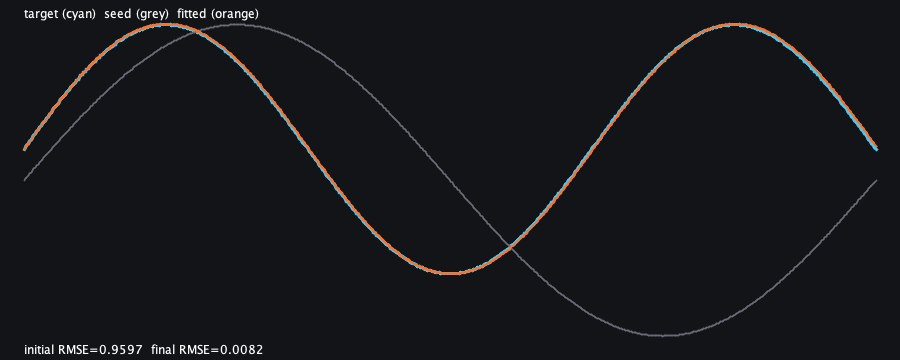
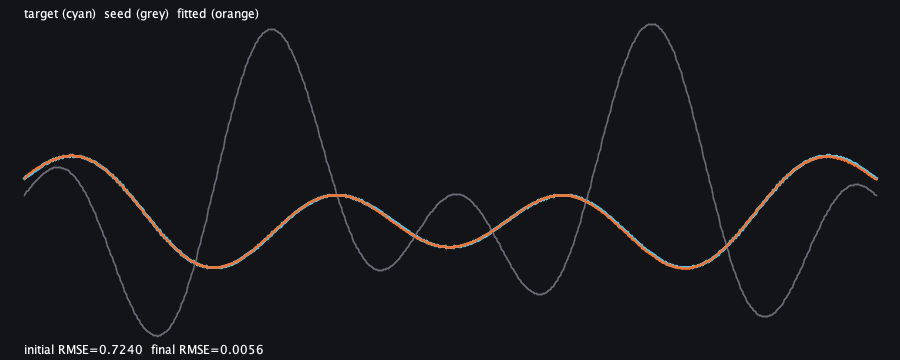
feat(fit): fitBest multi-restart + live-coding ergonomics + honest hard test
Follow-up to the differentiable-fit swing, from live review.

Why: a single fitGradient is *local*. Oscillator frequency/phase enter the
RMSE loss periodically, so from a wrong frequency Adam drifts into a spurious
basin and stalls (measured: cos(2)*sin(1.5) fit from cos(3.4)*sin(1.0) sticks
at RMSE ~0.19; more iters/higher lr don't help; global optimum ~0.006). The
shipped test hid this by fitting a single sine already inside the global basin.

- fitBest(target, seed, restarts): deterministic jittered restarts (restart 0 =
  clean anchor, so never worse than a plain fit), keeps the lowest-RMSE result.
  Escapes the frequency local-minimum -> RMSE ~0.006 on the hard target.
- Ergonomics (live coding): domain now accepts a bare range (0.0..1.0) or a
  Domain and defaults to Domain.DEFAULT (0..1) — no Functions.Domain(...) at the
  call site. (target.domain is unusable as a default: oscillators report
  Domain.ALL.) Applies to fitGradient/fitBest/fitHybrid.
- FnFitRun gets a concise ValueVisualizer render (RMSE before->after + a loss
  sparkline) so  is a clean result, not a 300-entry steps dump.
- Test: replaced the too-easy 'beats genetic' test with an honest pair —
  singleShotGradientStallsInAFrequencyLocalMinimum + fitBestEscapesWhereSingleShotStalls
  (< 0.05, far better than single-shot) — plus determinism, bare-range domain,
  and the concise-render assertion. Montage now renders the hard case via
  fitBest (eyeballed: fitted overlays target, RMSE 0.7240 -> 0.0056).
[…]

diff --git a/src/jvmMain/kotlin/afield/stdlib/FunctionFit.kt b/src/jvmMain/kotlin/afield/stdlib/FunctionFit.kt
@@ -13,6 +13,11 @@ import kotlin.random.Random
  * descends the RMSE loss against a target `Fn`. The two are complementary — [fitHybrid]
  * runs [evolve] to discover a shape, then polishes its constants here.
  *
+ * A lone [fitGradient] is *local* and will stall in a frequency local-minimum when the seed's
+ * oscillator frequencies are far from the target's (RMSE-vs-frequency is periodic, not convex);
+ * [fitBest] wraps it in deterministic jittered restarts and is the recommended entry when the
+ * starting numbers may be wrong. See [fitBest]'s KDoc for the why.
+ *
  * The θ extract/apply primitives ride on [Functions.Fn.mapGraphNumbers], whose post-order
  * DFS is stable and deterministic with `preserveSharing = false`: the *i*-th numeric leaf
  * seen while reading is the *i*-th leaf written while applying, so a plain index counter is
@@ -81,6 +86,16 @@ fun rmseLossAgainst(
     val fitness = matchFitness(target, domain, samples, complexityWeight = 0.0)
     return { candidate -> -fitness(candidate) }
 }
+
+/**
+ * A [Functions.Domain] is a `ClosedRange<Double>`, so the fitters accept either a bare range
+ * (`0.0 .. 1.0`) or a `Domain` and normalise here — no `Functions.Domain(...)` ceremony at the
+ * call site. The default across the fitters is the unit domain [Functions.Domain.DEFAULT]
+ * (`0..1`) — a bounded sampling window — because oscillator `Fn`s report [Functions.Domain.ALL]
+ * (±∞), which cannot be sampled; pass a range when you want to fit over anything else.
+ */
+private fun ClosedRange<Double>.asFnDomain(): Functions.Domain =
+    this as? Functions.Domain ?: Functions.Domain(start, endInclusive)
 
 /** One descent step's record: the loss (RMSE) after applying the step. */
 data class FnFitStep(
@@ -203,7 +218,7 @@ private fun finiteDifferenceGradient(
 fun fitGradient(
     target: Functions.Fn,
     seed: Functions.Fn,
-    domain: Functions.Domain = Functions.Domain.DEFAULT,
+    domain: ClosedRange<Double> = Functions.Domain.DEFAULT,
     iterations: Int = 200,
     lr: Double = 0.05,
     beta1: Double = 0.9,
@@ -219,10 +234,11 @@ fun fitGradient(
     require(lr > 0.0) { "lr must be positive" }
     require(samples >= 2) { "samples must be >= 2" }
 
+    val dom = domain.asFnDomain()
     val config = FnFitConfig(
-        iterations, lr, beta1, beta2, epsilon, fdStep, samples, domain, rngSeed, initJitter
+        iterations, lr, beta1, beta2, epsilon, fdStep, samples, dom, rngSeed, initJitter
     )
-    val loss = rmseLossAgainst(target, domain, samples)
+    val loss = rmseLossAgainst(target, dom, samples)
     val lossOfTheta: (DoubleArray) -> Double = { theta -> loss(seed.applyParameters(theta)) }
 
     val rng = Random(rngSeed)
@@ -292,6 +308,69 @@ fun fitGradient(
     )
 }
 
+/**
+ * Robust fit by multiple jittered restarts — the recommended entry point when the seed's
+ * numbers might be far from the target's.
+ *
+ * A single [fitGradient] is *local*: Adam follows the RMSE gradient into the nearest basin.
+ * For parameters that enter the loss linearly (amplitude, offset) that basin is the global
+ * one and one shot suffices. But **oscillator frequency/phase enter the loss periodically**,
+ * so RMSE-vs-frequency is riddled with local minima: a lone descent from the wrong frequency
+ * drifts into a spurious basin and stalls (empirically ~0.19 RMSE on a two-oscillator target
+ * whose global optimum is ~0.005). This runs [restarts] independent fits — restart 0 from the
+ * clean seed, the rest from `±restartJitter*(1+|θ|)` shakes of it (each seeded from
+ * `rngSeed + k`) — and keeps the lowest-RMSE result. One of the shakes usually lands in the
+ * global basin. Fully deterministic given [rngSeed].
+ *
+ * For a *structurally* wrong seed (missing operators, wrong topology) reach for [fitHybrid],
+ * which searches shape with [evolve] first; [fitBest] only searches numbers.
+ */
+fun fitBest(
+    target: Functions.Fn,
+    seed: Functions.Fn,
+    domain: ClosedRange<Double> = Functions.Domain.DEFAULT,
+    restarts: Int = 12,
+    iterations: Int = 300,
+    lr: Double = 0.05,
+    beta1: Double = 0.9,
+    beta2: Double = 0.999,
+    epsilon: Double = 1e-8,
+    fdStep: Double = 1e-4,
+    samples: Int = 128,
+    restartJitter: Double = 0.6,
+    rngSeed: Long = 0L
+): FnFitRun {
+    require(restarts >= 1) { "restarts must be >= 1" }
+    val reporter = afield.progressReporter("fit best")
+    var best: FnFitRun? = null
+    try {
+        for (k in 0 until restarts) {
+            // Restart 0 is the un-jittered anchor: fitBest is never worse than a plain fit.
+            val jitter = if (k == 0) 0.0 else restartJitter
+            val run = fitGradient(
+                target = target,
+                seed = seed,
+                domain = domain,
+                iterations = iterations,
+                lr = lr,
+                beta1 = beta1,
+                beta2 = beta2,
+                epsilon = epsilon,
+                fdStep = fdStep,
+                samples = samples,
+                rngSeed = rngSeed + k,
+                initJitter = jitter,
+                onIteration = { _, _ -> } // suppress inner bars; the outer one tracks restarts
+            )
+            if (best == null || run.finalRmse < best.finalRmse) best = run
+            reporter.update((k + 1).toLong(), restarts.toLong())
+        }
+    } finally {
+        reporter.finish()
+    }
+    return best!!
+}
+
 /** Result and provenance of a [fitHybrid] run: the structural search then the polish. */
 data class FnHybridRun(
     val evolveRun: FnEvolveRun,
@@ -318,7 +397,7 @@ data class FnHybridRun(
 fun fitHybrid(
     target: Functions.Fn,
     seed: Functions.Fn,
-    domain: Functions.Domain = Functions.Domain.DEFAULT,
+    domain: ClosedRange<Double> = Functions.Domain.DEFAULT,
     evolveIterations: Int = 64,
     evolveLambda: Int = 6,
     fitIterations: Int = 200,
@@ -332,7 +411,8 @@ fun fitHybrid(
     rngSeed: Long = 0L,
     mutations: List<Pair<String, FnMutation>> = FnMutations.defaults()
 ): FnHybridRun {
-    val fitness = matchFitness(target, domain, samples, complexityWeight)
+    val dom = domain.asFnDomain()
+    val fitness = matchFitness(target, dom, samples, complexityWeight)
     val evolveRun = evolve(
         seed = seed,
         iterations = evolveIterations,
@@ -344,7 +424,7 @@ fun fitHybrid(
     val fitRun = fitGradient(
         target = target,
         seed = evolveRun.best,
-        domain = domain,
+        domain = dom,
         iterations = fitIterations,
         lr = lr,
         beta1 = beta1,

diff --git a/src/jvmTest/kotlin/afield/stdlib/FunctionFitTest.kt b/src/jvmTest/kotlin/afield/stdlib/FunctionFitTest.kt
@@ -75,27 +75,63 @@ class FunctionFitTest {
         assertTrue(a.parameters.contentEquals(b.parameters), "same seed must give identical params")
     }
 
+    // A genuinely hard target: a *product* of two oscillators whose frequencies (2, 1.5) are
+    // far from the seed's (3.4, 1.0). Amplitude/offset are easy; the frequencies sit in a
+    // multimodal RMSE landscape, so a single local descent stalls in the wrong basin.
+    private fun hardTarget() = with(Functions) { cos(2) * sin(1.5, amplitude = 0.8, offset = 0.2) }
+    private fun hardSeed() = with(Functions) { cos(3.4) * sin(1.0, amplitude = 2.0, offset = 0.0) }
+
     @Test
-    fun fitGradientBeatsGeneticBaselineOfComparableBudget() = with(Functions) {
-        val target = sin(1.5, amplitude = 0.8, offset = 0.2)
-        val seed = sin(1.0, amplitude = 1.0, offset = 0.0)
+    fun singleShotGradientStallsInAFrequencyLocalMinimum() = with(Functions) {
+        // Documents the real limitation (not a bug): one descent, even with a large budget,
+        // cannot cross the frequency barriers and settles well above the global optimum (~0.005).
+        val run = fitGradient(hardTarget(), hardSeed(), domain = domain, iterations = 3000, lr = 0.05)
+        assertTrue(
+            run.finalRmse > 0.1,
+            "single-shot gradient is expected to stall here; got ${run.finalRmse} (if this " +
+                "dropped, the loss landscape or defaults changed — revisit the story)"
+        )
+    }
 
-        val fitRun = fitGradient(target, seed, domain = domain, iterations = 200, lr = 0.05)
-
-        // Comparable evaluation budget for the genetic baseline: fitGradient spends
-        // ~ iterations * (2*params + 1) evals; match that with evolve's lambda draws.
-        val budget = fitRun.evaluations
-        val fitness = matchFitness(target, domain, samples = 128)
-        val lambda = 6
-        val evolveIters = budget / lambda
-        val evolveRun = evolve(seed, iterations = evolveIters, lambda = lambda, rngSeed = 0L, fitness = fitness)
-        val evolveRmse = -evolveRun.bestScore
+    @Test
+    fun fitBestEscapesWhereSingleShotStalls() = with(Functions) {
+        val target = hardTarget()
+        val seed = hardSeed()
+        val single = fitGradient(target, seed, domain = domain, iterations = 300, lr = 0.05)
+        // fitBest omits `domain` on purpose — it must default to the target's own domain.
+        val best = fitBest(target, seed, restarts = 16, iterations = 400, lr = 0.05, rngSeed = 0L)
 
         assertTrue(
-            fitRun.finalRmse <= evolveRmse,
-            "gradient RMSE ${fitRun.finalRmse} should beat/match genetic $evolveRmse " +
-                "(budget=$budget, evolveIters=$evolveIters)"
+            best.finalRmse < 0.05,
+            "fitBest should reach the global basin (< 0.05); got ${best.finalRmse}"
         )
+        assertTrue(
+            best.finalRmse < single.finalRmse * 0.5,
+            "fitBest ${best.finalRmse} should be far better than single-shot ${single.finalRmse}"
+        )
+        // Never worse than a plain fit: restart 0 is the un-jittered anchor.
+        assertTrue(best.finalRmse <= single.finalRmse + 1e-9)
+    }
+
+    @Test
+    fun fitBestIsDeterministic() = with(Functions) {
+        val target = hardTarget()
+        val seed = hardSeed()
+        val a = fitBest(target, seed, restarts = 8, iterations = 150, rngSeed = 7L)
+        val b = fitBest(target, seed, restarts = 8, iterations = 150, rngSeed = 7L)
+        assertEquals(a.losses, b.losses, "same seed/config must give an identical trajectory")
+        assertTrue(a.parameters.contentEquals(b.parameters), "same seed must give identical params")
+    }
+
+    @Test
+    fun domainAcceptsABareRange() = with(Functions) {
+        val target = sin(1.5, amplitude = 0.8, offset = 0.2)
+        val seed = sin(1.0, amplitude = 1.0, offset = 0.0)
+        // Bare range, no Functions.Domain(...) ceremony:
+        val viaRange = fitGradient(target, seed, domain = 0.0..1.0, iterations = 120, lr = 0.05)
+        // Omitted entirely -> Functions.Domain.DEFAULT, which is 0..1:
+        val viaDefault = fitGradient(target, seed, iterations = 120, lr = 0.05)
+        assertEquals(viaRange.losses, viaDefault.losses, "bare range 0..1 must match the 0..1 default")
     }
 
     @Test
@@ -114,10 +150,22 @@ class FunctionFitTest {
     }
 
     @Test
+    fun fnFitRunRendersConciselyNotAsAFieldDump() = with(Functions) {
+        val run = fitGradient(sin(1.5, amplitude = 0.8, offset = 0.2), sin(1.0), iterations = 120, lr = 0.05)
+        val html = afield.ValueVisualizer.visualize(run)
+        assertTrue("FnFitRun" in html && "RMSE" in html, "should show a labelled RMSE summary")
+        // The whole point: no dumping the hundreds-long steps list.
+        assertTrue("FnFitStep" !in html, "concise render must not enumerate the steps list")
+        assertTrue(html.length < 6000, "concise render should be compact; was ${html.length} chars")
+    }
+
+    @Test
     fun rendersFitMontagePng() = with(Functions) {
-        val target = sin(1.5, amplitude = 0.8, offset = 0.2)
-        val seed = sin(1.0, amplitude = 1.0, offset = 0.0)
-        val run = fitGradient(target, seed, domain = domain, iterations = 300, lr = 0.05)
+        // Render the *hard* case via the recommended path, so the eyeballed proof shows the
+        // optimiser actually escaping a frequency local-minimum, not just an easy single-sine fit.
+        val target = hardTarget()
+        val seed = hardSeed()
+        val run = fitBest(target, seed, restarts = 16, iterations = 400, lr = 0.05)
 
         val w = 900
         val h = 360

diff --git a/src/jvmMain/kotlin/afield/visualization/ValueVisualizer.kt b/src/jvmMain/kotlin/afield/visualization/ValueVisualizer.kt
@@ -268,6 +268,7 @@ object ValueVisualizer {
         is FLine -> formatFLine(value)
         is Functions.Domain -> formatDomain(value)
         is Functions.Fn -> formatFn(value, depth, visited, respectDepthLimit)
+        is afield.stdlib.FnFitRun -> formatFnFitRun(value)
         is Box -> formatBox(value)
         is Plot -> value.toHtml()
         is Function<*> -> formatFunction(value, null)
@@ -696,6 +697,32 @@ object ValueVisualizer {
      * domain is just `Domain { ∞ }`, a point is `Domain { x }`, everything else `Domain { a..b }`
      * (with ±∞ for a half-open end).
      */
+    /**
+     * Concise render of a [afield.stdlib.FnFitRun]: the RMSE it started at and landed on, the
+     * budget it spent, and a sparkline of the whole loss trajectory — instead of dumping the
+     * (often hundreds long) `steps`/`losses` arrays that the generic data-class renderer would.
+     */
+    private fun formatFnFitRun(run: afield.stdlib.FnFitRun): String = buildString {
+        val arrow = if (run.improved) "↓" else "→"
+        val arrowColour = if (run.improved) "#8f8" else "#f88"
+        append("<div>")
+        append("<span style='color: #cc8;'>FnFitRun</span> ")
+        append("<span style='color: #aaa;'>RMSE </span>")
+        append("<span style='color: #8cf;'>${fmt(run.initialRmse)}</span>")
+        append("<span style='color: $arrowColour;'> $arrow </span>")
+        append("<span style='color: #8f8;'>${fmt(run.finalRmse)}</span>")
+        append(
+            "<span style='color: #888;'>  ${run.iterations} steps · ${run.evaluations} evals · " +
+                "${run.parameters.size} params</span>"
+        )
+        append("</div>")
+        if (run.losses.size >= SPARKLINE_MIN_POINTS) {
+            append("<div style='margin-top: 2px;'>")
+            append(renderNumericSparkline(run.losses))
+            append("</div>")
+        }
+    }
+
     private fun formatDomain(d: Functions.Domain): String {
         val inner = when {
             d._isEmpty -> "<span style='color: #888;'>∅</span>"

diff --git a/dev_docs/stdlib/FN_GRAPH_FITTING.md b/dev_docs/stdlib/FN_GRAPH_FITTING.md
@@ -7,7 +7,12 @@ target signal:
 | | searches over | file | entry point |
 | --- | --- | --- | --- |
 | **Genetic** | *structure* (operators + topology) | `FunctionEvolve.kt` | `evolve(...)` |
-| **Differentiable** | *numbers* (the numeric leaves) | `FunctionFit.kt` | `fitGradient(...)` |
+| **Differentiable** | *numbers* (the numeric leaves) | `FunctionFit.kt` | `fitBest(...)` / `fitGradient(...)` |
+| **Both** | structure then numbers | `FunctionFit.kt` | `fitHybrid(...)` |
+
+`domain` accepts a bare range (`0.0 .. 1.0`) or a `Domain`, and defaults to `Domain.DEFAULT`
+(`0..1`) — no `Functions.Domain(...)` at the call site. (Oscillator `Fn`s report `Domain.ALL`,
+which can't be sampled, so the default is the bounded unit domain, not the target's own domain.)
 
 ## The θ-vector
 
@@ -25,10 +30,10 @@ the same leaf: a clean θ↔graph bijection. `parameterCount()` gives dim(θ).
 
 ```kotlin
 with(Functions) {
-    val target = sin(1.5, amplitude = 0.8, offset = 0.2)      // a·sin(freq·x)+b
-    val seed   = sin(1.0, amplitude = 1.0, offset = 0.0)      // same shape, wrong numbers
-    val run    = fitGradient(target, seed, domain = Functions.Domain(0.0, 1.0), iterations = 300, lr = 0.05)
-    // run.finalRmse ≈ 0.008 (from an initial ≈ 0.96); run.fitted overlays the target.
+    val target = sin(1.5, amplitude = 0.8, offset = 0.2)   // a·sin(freq·x)+b
+    val seed   = sin(1.0, amplitude = 1.0, offset = 0.0)   // same shape, wrong numbers
+    fitGradient(target, seed, iterations = 300, lr = 0.05)  // domain defaults to 0..1
+    // .finalRmse ≈ 0.008 (from an initial ≈ 0.96); .fitted overlays the target.
 }
 ```
 
@@ -40,7 +45,30 @@ with(Functions) {
   optional `initJitter` draws from a single seeded `Random`).
 - **Provenance** — returns `FnFitRun`: the fitted `Fn`, the full loss trajectory
   (`losses`, start-inclusive), initial vs final RMSE, evaluation count, and the `FnFitConfig`
-  seed/config — mirroring `evolve`'s `FnEvolveRun`.
+  seed/config — mirroring `evolve`'s `FnEvolveRun`. Just `return run` in a box: the
+  `ValueVisualizer` renders it as a compact `RMSE before → after` line with a loss sparkline.
+
+## `fitBest` — restarts that escape local minima *(recommended)*
+
+`fitGradient` is *local*. Amplitude/offset enter the loss ~linearly, so one shot finds them —
+but **oscillator frequency/phase enter the loss periodically**, so `RMSE`-vs-frequency is
+multimodal. From a wrong frequency, a lone descent drifts into a spurious basin and stalls.
+Concretely, fitting `cos(2)*sin(1.5,…)` from a `cos(3.4)*sin(1.0,…)` seed: `fitGradient` sticks
+at RMSE ≈ 0.19 (and *more* iterations don't help — it's a floor, not undertraining), while the
+global optimum is ≈ 0.006.
+
+```kotlin
+with(Functions) {
+    val target = cos(2) * sin(1.5, amplitude = 0.8, offset = 0.2)
+    val seed   = cos(3.4) * sin(1.0, amplitude = 2.0)
+    fitBest(target, seed, restarts = 16)   // finalRmse ≈ 0.006
+}
+```
+
+`fitBest` runs `restarts` independent fits — restart 0 from the clean seed (so it's never worse
+than a plain fit), the rest from `±restartJitter*(1+|θ|)` shakes seeded from `rngSeed + k` — and
+keeps the lowest-RMSE result. Deterministic given `rngSeed`. When the seed is *structurally*
+wrong (missing operators), use `fitHybrid` instead — it searches shape first.
 
 ## `fitHybrid` — structure then numbers
 
@@ -51,9 +79,10 @@ Adam nails the constants. Returns `FnHybridRun(evolveRun, fitRun)` with `seedRms
 
 ## Verify / see it
 
-- Tests: `afield.stdlib.FunctionFitTest` (RMSE reduction, determinism, a win over a
-  comparable-budget genetic baseline, hybrid polish, θ round-trip) — it also renders
-  `fn_fit_montage.png` from the real fitted `Fn`.
+- Tests: `afield.stdlib.FunctionFitTest` (RMSE reduction, determinism, θ round-trip, bare-range
+  domain, the concise `FnFitRun` render, and the honest hard case: a single-shot gradient
+  *stalls* in a frequency local-minimum while `fitBest` escapes it) — it also renders
+  `fn_fit_montage.png` from the real `fitBest` result on that hard target.
 - Loadable demo: replay `dev_docs/agents/transcripts/fn_differentiable_fit_demo.yaml` into a
   fresh Field4 (agent backdoor / `field_run_transcript`) — it plots a target and its
   gradient-fitted match in one box.
